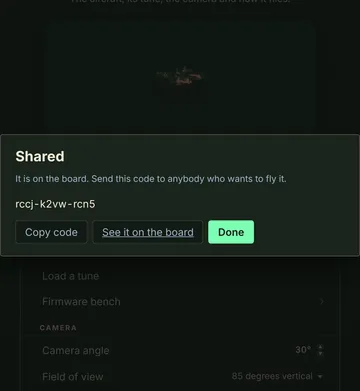
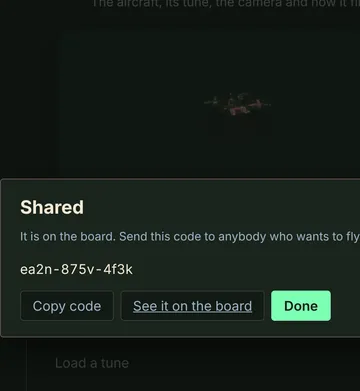
Tunes pictures: the Shared dialog and the share list framed for their panels
Claude-Session: https://claude.ai/code/session_01EDdUoBDsCkQmov9QtFbW38

diff --git a/docs/chapters.js b/docs/chapters.js
@@ -561,8 +561,8 @@
           ],
           words: [
             { k: 'letter', x: 70, y: 132, size: 76, anchor: 'start', max: 860, runs: [['TUNES', 'cream']], in: 'hd' },
-            { k: 'note', x: 61, yb: 667, w: 400, d: '11 October', t: 'A Tunes library. Share this tune puts the tune you fly on the board with a short code, like k7mq-2xrt-9vwd. Paste a code under Load a tune and see what is in it before anything changes.', in: 'n1', small: true },
-            { k: 'note', x: 539, y: 198, w: 400, d: '11 October', t: 'A tune holds its PIDs, rates, weight, Air grip, Motor power, pack, lens and tilt. Not your graphics, sticks, radio, flight mode, names or laps. Put mine back undoes a load.', in: 'n2', small: true },
+            { k: 'note', x: 61, y: 198, w: 400, d: '11 October', t: 'A Tunes library. Share this tune puts the tune you fly on the board with a short code, like k7mq-2xrt-9vwd. Paste a code under Load a tune and see what is in it before anything changes.', in: 'n1', small: true },
+            { k: 'note', x: 539, yb: 642, w: 400, d: '11 October', t: 'A tune holds its PIDs, rates, weight, Air grip, Motor power, pack, lens and tilt. Not your graphics, sticks, radio, flight mode, names or laps. Put mine back undoes a load.', in: 'n2', small: true },
             { k: 'note', x: 61, y: 761, w: 400, d: '11 October', t: 'Star ratings, one to five, on tunes, tracks and maps. One rating a browser, and you can change it. Tracks has a Top rated order, and the board has a Tunes tab.', in: 'n3', small: true }
           ]
         },

diff --git a/tools/shoot/c1-week.js b/tools/shoot/c1-week.js
@@ -185,7 +185,7 @@ module.exports = {
     },
     /* ---- Tunes ---- */
     {
-      id: 'w-tu1', page: 'c1-p14b2', panel: 'n1', world: 'simQuad', viewport: [560, 860], page_shot: true,
+      id: 'w-tu1', page: 'c1-p14b2', panel: 'n1', world: 'simQuad', viewport: [560, 860], clip: [0, 120, 430, 470], page_shot: true,
       act: async (page) => {
         await page.evaluate(() => window.__ui.act('tune-share'));
         await page.waitForTimeout(1500);
@@ -199,7 +199,7 @@ module.exports = {
       }
     },
     {
-      id: 'w-tu2', page: 'c1-p14b2', panel: 'n2', world: 'simQuad', viewport: [560, 860], page_shot: true,
+      id: 'w-tu2', page: 'c1-p14b2', panel: 'n2', world: 'simQuad', viewport: [560, 860], clip: [0, 140, 560, 560], page_shot: true,
       act: async (page) => {
         await page.evaluate(() => window.__ui.show('quad'));
         await page.waitForTimeout(800);
